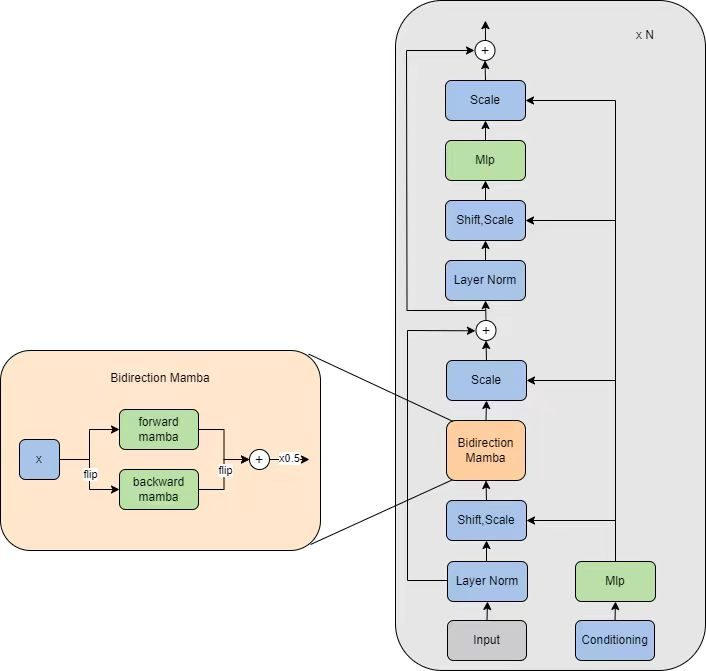
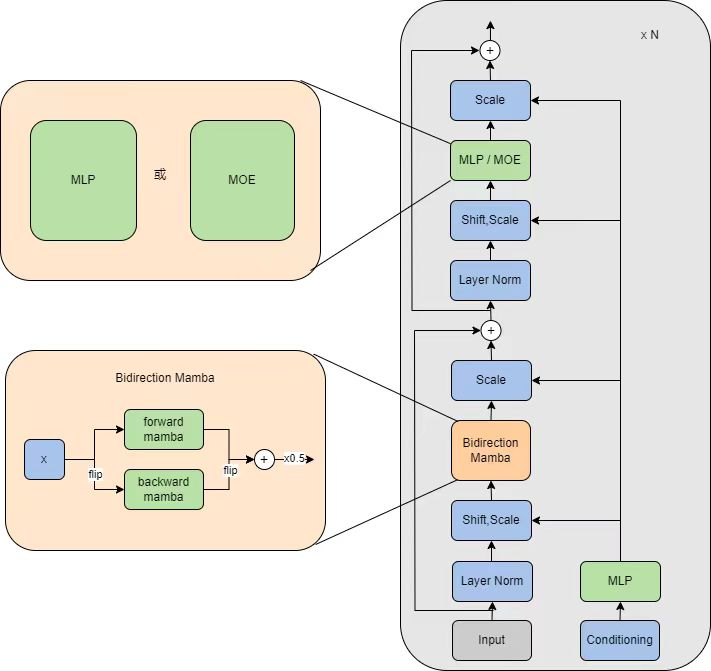
add moe version and some results

diff --git a/models.py b/models.py
@@ -113,7 +113,7 @@ class HourGlass(nn.Module):
 
 class MambaBlock(nn.Module):
     def __init__(
-        self, hidden_size, layer_idx, bidirectional, mlp_ratio=4.0, **block_kwargs 
+        self, hidden_size, layer_idx, bidirectional, moe_num_expert=8, moe_top_k=2, mlp_ratio=4.0, **block_kwargs 
     ):
         """
         Simple block wrapping a mixer class with LayerNorm/RMSNorm and residual connection"
@@ -161,6 +161,22 @@ class MambaBlock(nn.Module):
                 nn.SiLU(),
                 nn.Linear(hidden_size, 6 * hidden_size, bias=True)
             )
+
+        elif self.bidirectional == "v3":
+            self.norm1 = nn.LayerNorm(hidden_size, elementwise_affine=False, eps=1e-6)
+            self.norm2 = nn.LayerNorm(hidden_size, elementwise_affine=False, eps=1e-6)
+            mlp_hidden_dim = int(hidden_size * mlp_ratio)
+            approx_gelu = lambda: nn.GELU(approximate="tanh")
+
+            self.experts = nn.ModuleList([Mlp(in_features=hidden_size, hidden_features=mlp_hidden_dim, act_layer=approx_gelu, drop=0)
+                                        for _ in range(moe_num_expert)])
+
+            self.gate = NaiveGate(hidden_size, moe_num_expert, moe_top_k)
+
+            self.adaLN_modulation = nn.Sequential(
+                nn.SiLU(),
+                nn.Linear(hidden_size, 6 * hidden_size, bias=True)
+            )
         else: 
             raise NotImplementedError("not implemented")
 
@@ -197,7 +213,30 @@ class MambaBlock(nn.Module):
             x_o = self.mlp(modulate(self.norm2(x), shift_o, scale_o)) 
 
             x = x + gate_o.unsqueeze(1) * x_o
-        
+
+        elif self.bidirectional == "v3" :
+            shift_m, scale_m, gate_m, shift_o, scale_o, gate_o = self.adaLN_modulation(c).chunk(6, dim=1)
+
+            x = modulate(self.norm1(x), shift_m, scale_m)
+            x_f = self.mixer1(x, inference_params=inference_params)
+            x_b = self.mixer2(x.flip([1]), inference_params=inference_params)
+            x_fb = (x_f + x_b.flip([1])) * 0.5
+            x = x + gate_m.unsqueeze(1) * x_fb 
+
+            norm_x = self.norm2(x)
+            norm_x_squashed = norm_x.view(-1, norm_x.shape[-1])  
+            gate_top_k_idx, gate_top_k_score = self.gate(norm_x_squashed, return_all_scores=False)  # N*SEQ, TOPK
+
+            x_norm = modulate(norm_x, shift_o, scale_o)
+            norm_x_squashed = x_norm.view(-1, norm_x.shape[-1]) 
+            results = torch.zeros_like(norm_x_squashed)
+            for i, expert in enumerate(self.experts):
+                batch_idx, nth_expert = torch.where(gate_top_k_idx == i)
+                score = gate_top_k_score[batch_idx, nth_expert][..., None]
+                pick = norm_x_squashed[batch_idx]
+                results[batch_idx] += expert(pick) * score
+
+            x = x + gate_o.unsqueeze(1) * results.view(x.shape)
         else:            
             raise NotImplementedError("not implemented")
 
@@ -628,16 +667,27 @@ def DiT_B_MOE_4(**kwargs):
 
 # =============================== MAMBA ===========================================
 def DiT_XL_BIMBv1_2(**kwargs):
+    return DiT(depth=28, hidden_size=1152, patch_size=2, num_heads=16, block_type="MambaBlock", bidirectional="v1", **kwargs)
+
+def DiT_L_BIMBv1_2(**kwargs):
     return DiT(depth=24, hidden_size=1024, patch_size=2, num_heads=16, block_type="MambaBlock", bidirectional="v1", **kwargs)
 
 def DiT_B_BIMBv1_4(**kwargs):
     return DiT(depth=12, hidden_size=768, patch_size=4, num_heads=12, block_type="MambaBlock", bidirectional="v1", **kwargs)
 
 def DiT_XL_BIMBv2_2(**kwargs):
+    return DiT(depth=28, hidden_size=1152, patch_size=2, num_heads=16, block_type="MambaBlock", bidirectional="v2", **kwargs)
+
+def DiT_L_BIMBv2_2(**kwargs):
     return DiT(depth=24, hidden_size=1024, patch_size=2, num_heads=16, block_type="MambaBlock", bidirectional="v2", **kwargs)
 
 def DiT_B_BIMBv2_4(**kwargs):
     return DiT(depth=12, hidden_size=768, patch_size=4, num_heads=12, block_type="MambaBlock", bidirectional="v2", **kwargs)
+
+
+def DiT_B_BIMBv3_4(**kwargs):
+    return DiT(depth=12, hidden_size=768, patch_size=4, num_heads=12, block_type="MambaBlock", bidirectional="v2", **kwargs)
+
 
 # ================================= ORIGIN ===========================================
 def DiT_XL_2(**kwargs):
@@ -678,7 +728,8 @@ def DiT_S_8(**kwargs):
 
 
 DiT_models = {
-    "DiT-XL-MOE/2": DiT_XL_MOE_2, "DiT-B-MOE/4": DiT_B_MOE_4,
+    'DiT-B-BIMBv3/4': DiT_B_BIMBv3_4, 
+    'DiT-XL-MOE/2': DiT_XL_MOE_2, 'DiT-B-MOE/4': DiT_B_MOE_4,
     'DiT-XL-BIMBv2/2': DiT_XL_BIMBv2_2, 'DiT-XL-BIMBv1/2': DiT_XL_BIMBv1_2,
     'DiT-B-BIMBv2/4': DiT_B_BIMBv2_4,  'DiT-B-BIMBv1/4': DiT_B_BIMBv1_4,
     'DiT-XL/2': DiT_XL_2,  'DiT-XL/4': DiT_XL_4,  'DiT-XL/8': DiT_XL_8,

diff --git a/README.md b/README.md
@@ -6,7 +6,26 @@ The version 2 of the bi-mamba block is as follows:
 
 <img src="./assets/bimamba.jpg" alt="bi-mamba v2" width="500">
 
-see [`models.py`](models.py) for details.
+The version 3 is moe version. see [`models.py`](models.py) for details.
+
+There is **no** completed version yet. <br>
+
+There are some experimental results:
+
+| DiT Model  | Train Steps | FID-50K<br> (PyTorch Training) | PyTorch Global Training Seed |
+|------------|-------------|--------------------------------|------------------------------|
+| XL/2       | 400K        | **18.1**                       | 42                           |
+| B/4        | 400K        | 68.9                           | 42                           |
+| B/4        | 400K        | **68.3**                       | 100                          |
+|------------|-------------|--------------------------------|------------------------------|
+| DiM-B/4    | 400K        | 58.6                           | 0                            |
+| DiM-L/2    | 400K        | 19.8                           | 0                            |
+
+
+
+## Sampling of DiM-L/2（400K Step）
+<img src="./assets/dim_l_2.jpg" alt="sample" width="500">
+
 
 ### Preparation Before Training
 To extract ImageNet features with `1` GPUs on one node:
